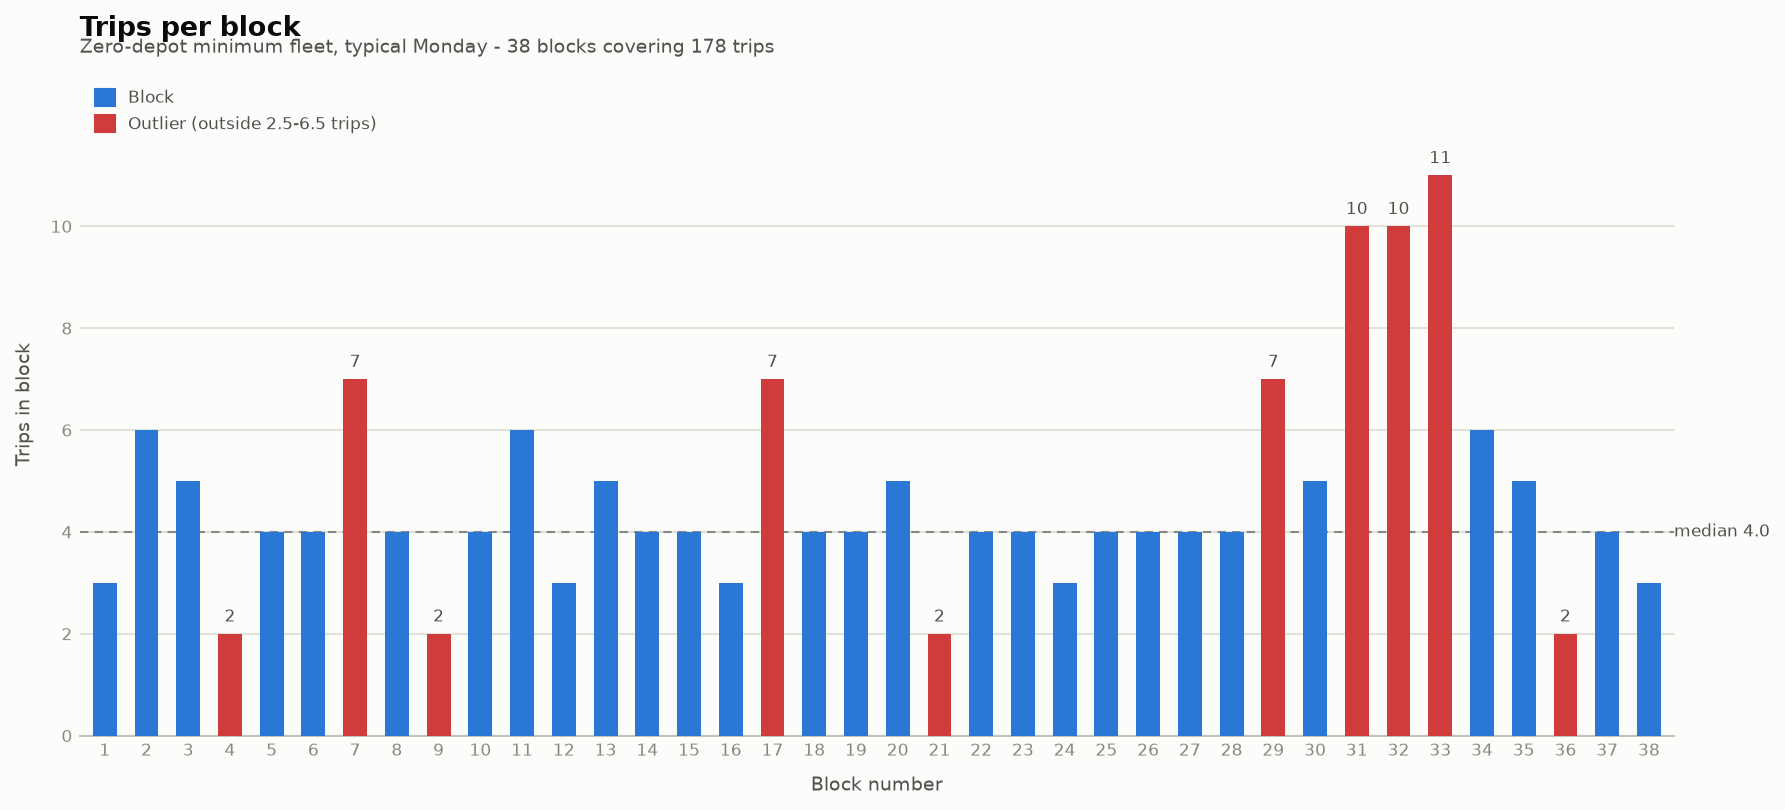
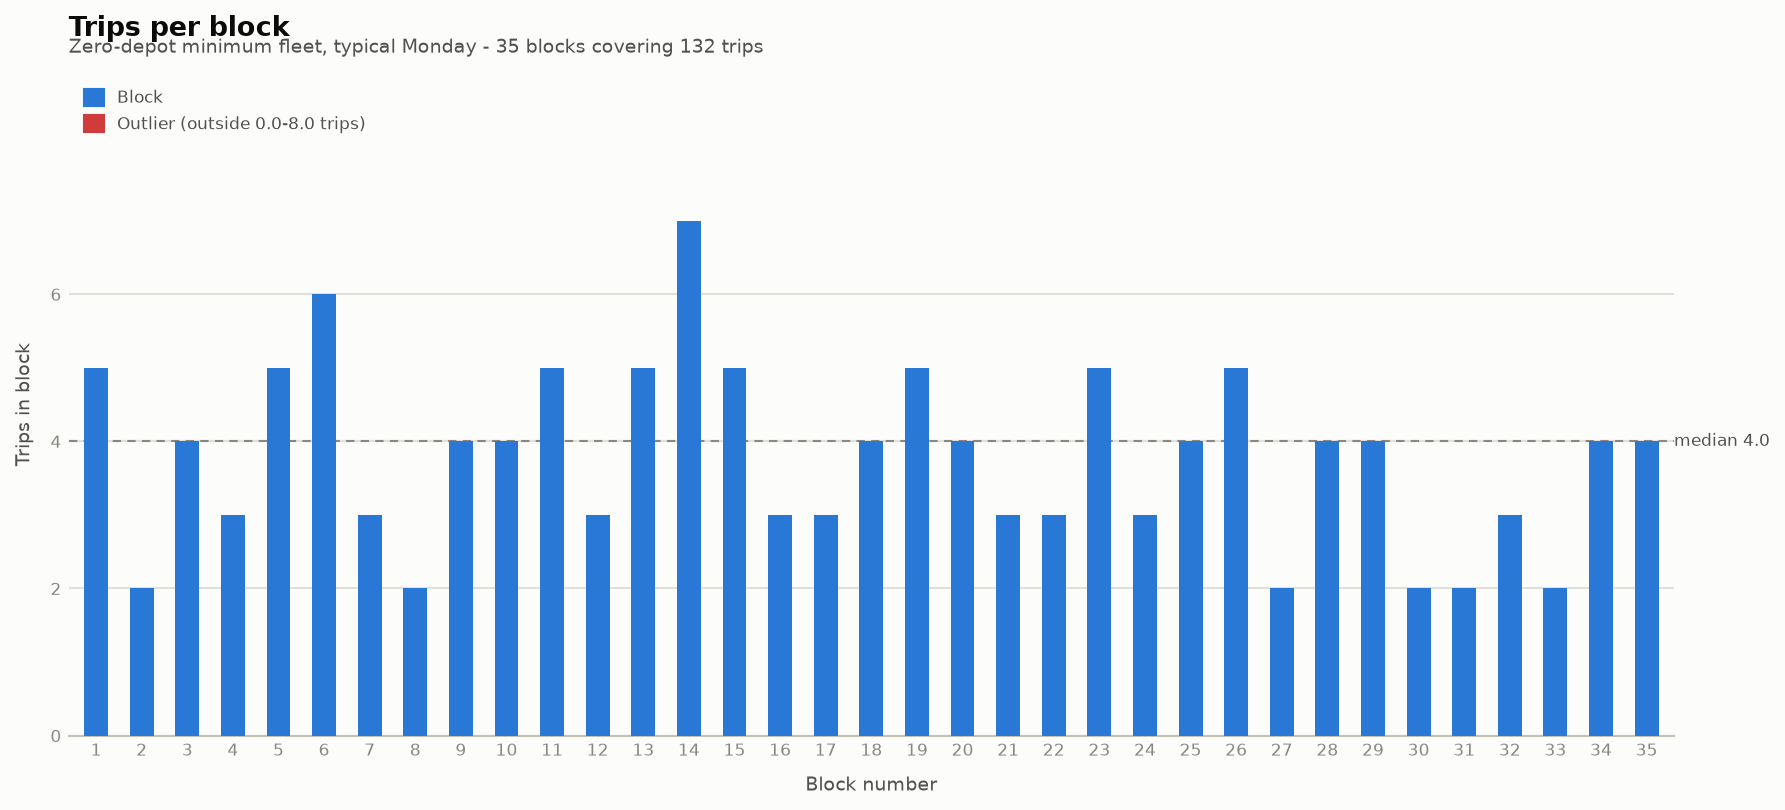
Removal of Arrow trips; revised analysis

diff --git a/tests/test_valid_pair.py b/tests/test_valid_pair.py
@@ -24,7 +24,7 @@ The suite is in three layers:
 
   * SYNTHETIC   - a hand-built schedule pinning the exact boundary around
                   `turnaround`, where the real data is too sparse to probe.
-  * PROPERTIES  - exhaustive sweeps over all 178^2 real pairs, asserting the
+  * PROPERTIES  - exhaustive sweeps over all 132^2 real pairs, asserting the
                   invariants the fleet model depends on. These are the tests
                   that actually protect the result.
   * REAL PAIRS  - named cases from the GTFS data, as readable anchors.
@@ -213,7 +213,7 @@ def test_unknown_trip_id_raises_keyerror(synthetic):
 # Properties, checked exhaustively over the real schedule
 # ==========================================================================
 #
-# These sweep all 178^2 = 31,684 ordered pairs. Spot checks can miss a sign
+# These sweep all 132^2 = 17,424 ordered pairs. Spot checks can miss a sign
 # error that only bites on a handful of pairs; these cannot. They are also the
 # invariants the min-fleet computation actually relies on, so a regression here
 # means a wrong answer, not just a wrong test.
@@ -299,12 +299,12 @@ def test_rejects_every_pair_that_runs_backwards(real_schedule):
 
 def test_arc_count_is_stable(accepted):
     """
-    Characterization test. 2,846 arcs at a 20-minute turnaround over the
-    178-trip typical Monday. Not a spec -- a tripwire, so that a change in the
+    Characterization test. 2,115 arcs at a 20-minute turnaround over the
+    132-trip typical Monday. Not a spec -- a tripwire, so that a change in the
     GTFS parse or the chaining rule surfaces here with a number to compare
     against rather than silently shifting the fleet result downstream.
     """
-    assert len(accepted) == 2846
+    assert len(accepted) == 2115
 
 
 # ==========================================================================
@@ -342,13 +342,13 @@ def test_real_pair_nineteen_minutes_passes_under_a_relaxed_turnaround():
 
 def test_real_pair_with_a_long_idle_layover():
     """
-    233003846  (185, 191, 13140, 14460)  in at Redlands-University 14460
-    233003845  (191, 185, 83220, 84540)  out from Redlands-University 83220
+    295700441  (123, 107, 14040, 19500)  Riverside -> LAUS, in at 19500
+    295200235  (107, 185, 77880, 84540)  LAUS -> San Bernardino, out at 77880
 
-    A 68,760s gap -- the set sits for 19 hours. Legal, if idle: turnaround is a
-    floor, not a ceiling.
+    A 58,380s gap -- the set sits for over 16 hours, the longest layover any
+    accepted pair carries. Legal, if idle: turnaround is a floor, not a ceiling.
     """
-    assert valid_pair(233003846, 233003845) is True
+    assert valid_pair(295700441, 295200235) is True
 
 
 def test_real_pair_with_second_trip_departing_first():
@@ -364,21 +364,21 @@ def test_real_pair_with_second_trip_departing_first():
 
 def test_real_pair_at_different_stations():
     """
-    200000029  (141, 185, 62820, 69360)  ends San Bernardino (185)
-    233003841  (191, 185, 76020, 77340)  starts Redlands-University (191)
+    200000030  (123, 141, 40200, 45120)  ends Laguna Niguel / Mission Viejo (141)
+    294100345  (185, 107, 52860, 59460)  starts San Bernardino (185)
 
-    Nearly two hours of slack, but the stations differ, so no chain.
+    A little over two hours of slack, but the stations differ, so no chain.
     """
-    assert valid_pair(200000029, 233003841) is False
+    assert valid_pair(200000030, 294100345) is False
 
 
 def test_real_schedule_has_the_expected_shape(real_schedule):
     """
-    Guards the assumption the fixtures above rest on: 178 trips, each a 4-tuple
+    Guards the assumption the fixtures above rest on: 132 trips, each a 4-tuple
     of ints. If typical_monday_trips.py changes shape, this fails first and
     explains why the hardcoded pairs stopped making sense.
     """
-    assert len(real_schedule) == 178
+    assert len(real_schedule) == 132
     for trip_id, entry in real_schedule.items():
         assert isinstance(entry, tuple) and len(entry) == 4, trip_id
         assert all(isinstance(v, int) for v in entry), trip_id

diff --git a/src/data_collection.py b/src/data_collection.py
@@ -7,12 +7,22 @@ choosing only the rows corresponding to services active on that day.
 Our first aim is to find such a Dataframe for a typical Monday - i.e. without
 service exceptions. The resulting Dataframe is written as a CSV in .txt format
 in gtfs_cleaned, named "typical_monday.txt".
+
+All Arrow DMU trips are excluded, as they form a distinct minority of trips
+operating on only the San Bernandino line. In particular, the Arrow FLIRT DMU's
+are maintained exclusively out of the Arrow Maintenance Facility in San Bernandino
+(https://www.gosbcta.com/maintenance-facility-construction-contract-for-future-arrow-service-trains/).
+These trips have trip_short_name numbered 38xx (https://metrolinktrains.com/globalassets/schedules/timetables/2026/ml-timetable-012626-arrow.pdf).
 """
 
 from pathlib import Path
 
 import pandas as pd
 from datetime import date
+
+# Arrow FLIRT trip_short_name's.
+
+ARROW_FLIRT = set([str(trip) for trip in range(3800, 3900)])
 
 # Resolve relative to this file, not the working directory, so the reads work
 # on any machine that clones the repo and from any directory the script is run
@@ -50,34 +60,22 @@ def services_active_on(day: date) -> set:
 
     return all_today, active_today
 
+# Filters out all Arrow FLIRT services - trip_short_name of form 38xx.
 def trips_on_day(day):
-    return trips[trips.service_id.isin( services_active_on(day)[1] )]
+    return trips[(trips['service_id'].isin( services_active_on(day)[1] ))
+                 & ~(trips['trip_short_name'].isin(ARROW_FLIRT))]
 
 # We find Oct 19, 2026 is a "typical monday" - there is no difference in the service sets
 # pre- and post- applying service exceptions.
-# 
-# If it is not already written, we write the resulting Dataframe to typical_monday.txt
+#
+# We write the resulting Dataframe to typical_monday.txt
 
 OCT_19_2026 = date(2026, 10, 19)
 assert(services_active_on(OCT_19_2026)[0] == services_active_on(OCT_19_2026)[1])
 
 OUT_PATH = DATA_DIR / "typical_monday.txt"
 
-# newline="" everywhere so the CSV's own "\n" line endings are never translated,
-# making the write and the read-back comparison byte-for-byte consistent.
-def write_if_changed(df: pd.DataFrame, path: Path) -> bool:
-    new_csv = df.to_csv(index=False)
-
-    if path.exists():
-        with open(path, "r", newline="", encoding="utf-8") as f:
-            if f.read() == new_csv:
-                return False  # Already up to date - leave the file alone.
-
-    with open(path, "w", newline="", encoding="utf-8") as f:
-        f.write(new_csv)
-    return True
-
-if write_if_changed(trips_on_day(OCT_19_2026), OUT_PATH):
-    print(f"Wrote {OUT_PATH}")
-else:
-    print(f"{OUT_PATH} already up to date")
+# newline="" so the CSV's own "\n" line endings are never translated.
+with open(OUT_PATH, "w", newline="", encoding="utf-8") as f:
+    f.write(trips_on_day(OCT_19_2026).to_csv(index=False))
+print(f"Wrote {OUT_PATH}")

diff --git a/src/typical_monday_trips.py b/src/typical_monday_trips.py
@@ -1,3 +1,16 @@
+"""
+Re-writes the data for a typical Monday schedule in a format convenient for
+formulating a LP. Every trip is represented as a key in a dictionary, with
+value a tuple (departure stop_id, arrival stop_id, departure time, arrival time).
+Such information is necessary for determining whether trips can chain into
+each other.
+
+Since this relies on typical_monday.txt for trips, we naturally exclude the
+Arrow trips as well. This results in a total 132 trips on a typical Monday, as
+demonstrated in the number of non-label non-empty lines in typical_monday.txt
+(easily verifiable by inspection).
+"""
+
 from pathlib import Path
 
 import pandas as pd
@@ -32,6 +45,8 @@ def typical_schedule_per_trip(trip_id: int) -> None:
 
     trip_stop_times = typical_stops[typical_stops.trip_id == trip_id]
     trips, _ = trip_stop_times.shape
+
+    # Turn a tuple (hours, minutes, seconds) into the total number of seconds as an integer.
     time_eval = lambda x: 3600*x[0] + 60*x[1] + x[2]
 
     departure, arrival = trip_stop_times.iloc[0], trip_stop_times.iloc[trips-1]
@@ -47,6 +62,9 @@ def typical_schedule_per_trip(trip_id: int) -> None:
 
 for trip in typical_monday_trip_ids:
     typical_schedule_per_trip(trip)
+
+# The typical Monday contains 132 total trips.
+assert( len(typical_monday_trip_schedule.keys()) == 132 )
 
 if __name__ == "__main__":
     # One line per trip rather than one dict repr, so the output can be read,

diff --git a/src/zero_depot_fleet.py b/src/zero_depot_fleet.py
@@ -54,9 +54,8 @@ assert(pulp.LpStatus[prob.status] == "Optimal")
 # of total trips minus the optimal number of chainings.
 fleet_size = len(typical_monday_trip_ids) - round(pulp.value(prob.objective))
 
-# fleet_size was found to be 38 total trains.
-assert(fleet_size == 38)
-
+# fleet_size was found to be 35 total trains, excluding DMU's running on the Arrow line.
+assert(fleet_size == 35)
 
 # Finding the actual blocks for this solution. We know the DAG formed by taking trips
 # as nodes and chains as directed arcs (which is acyclic because no chain can go back
@@ -133,8 +132,9 @@ def pretty_print_blocks(boolprint: bool):
 
 if __name__ == "__main__":
     # Pretty-prints the blocks. To display trips, set boolprint to True.
-    pretty_print_blocks(boolprint=False)
-    print(f"Minimum fleet size: {fleet_size} trainsets over {len(blocks_dict)} blocks.")
+    pretty_print_blocks(boolprint=True)
+    print("")
+    print(f"Minimum fleet size: {fleet_size} trainsets over {len(blocks_dict)} blocks.", end = '\n')
     # Block length statistics and the bar chart live in zero_depot_fleet_visualization.
     for block_id in sorted(block_origin_terminus.keys()):
         print(f"Block {block_id} " if block_id >= 10 else f"Block 0{block_id} ", end="")

diff --git a/README.md b/README.md
@@ -7,7 +7,15 @@ network from its published GTFS feed. The pipeline picks a *typical Monday* out
 of the feed — Oct 19, 2026, chosen because the set of services scheduled that
 day is identical before and after applying the feed's service exceptions, so it
 represents ordinary operation rather than a holiday or a special event. That day
-carries **178 trips** across the seven Metrolink lines.
+carries **132 trips** across the seven Metrolink lines.
+
+The Redlands **Arrow** trips are excluded. Arrow runs FLIRT DMUs maintained
+exclusively at the Arrow Maintenance Facility in San Bernardino, so they are a
+separate fleet that cannot chain with locomotive-hauled equipment — but the feed
+files them under the San Bernardino Line rather than a route of their own, so
+nothing in the GTFS tables marks them apart. `data_collection.py` drops them by
+`trip_short_name`, which Arrow numbers 38xx. That removes 46 of the day's 178
+trips.
 
 Each trip is reduced to the only four facts that matter for equipment planning:
 the station it departs from, the station it arrives at, and the two clock times,
@@ -17,7 +25,7 @@ least 20 minutes between the arrival and the following departure — enough to
 change ends and service the set. The turnaround is a **lower** bound only: a set
 that lays over at Lancaster from morning until evening is a legal, if idle,
 chain, and on the outer ends of the AV and VC lines it is a necessary one.
-Applying that rule to all 178² ordered pairs yields **2,846 valid chainings**.
+Applying that rule to all 132² ordered pairs yields **2,115 valid chainings**.
 
 Treat trips as nodes and valid chainings as directed arcs and the result is a
 DAG — every arc moves strictly forward in time, so no sequence of chains can
@@ -32,7 +40,16 @@ makes it totally unimodular, so the relaxation is guaranteed to land on an
 integral optimum anyway and CBC gets an easier problem to solve.
 
 The answer, for a typical Monday under a 20-minute turnaround and no
-deadheading, is **38 trainsets** for 178 trips.
+deadheading, is **35 trainsets** for 132 trips. There is a very slight discrepancy
+between Metrolink's minimum total locomotives to run a normal weekday schedule,
+which was **36 trainsets** (https://www.trains.com/trn/news-reviews/news-wire/locomotive-issues-lead-to-metrolink-train-cancellations/).
+
+Excluding the Arrow trips is what moved that number: with them in, the same
+model returned 38 trainsets, and the longest block ran 11 trips. Without them
+the fleet drops to 35 and the longest block to 7 — inside the Tukey fences of
+[0, 8], so no block now reads as an outlier at all. The Arrow trips were not
+making the problem harder so much as making it fictitious; they chained into
+locomotive-hauled work that no DMU could ever cover.
 
 ### Modelling assumptions
 
@@ -51,66 +68,71 @@ monotonically with it.
 **span** — first departure to last arrival. Three things stand out.
 
 **The day balances.** The multiset of origins is exactly the multiset of
-termini: 12 blocks start at San Bernardino and 12 end there, 6 and 6 at LAUS,
-and so on across all twelve stations involved. Nothing needs repositioning
-overnight for the schedule to repeat, so 38 sets is a steady state rather than a
-one-day trick — and nothing in the model asked for it, it falls out of the
-matching. It
-also means the blocks chain into **rotations**: seven return to their own origin
-(two via triangles rather than out-and-backs, which is why they carry an odd
-number of trips), and the other 31 decompose into cycles — eight two-day pairs,
-one three-day, one four-day, one eight-day. The fleet is 18 pools, not 38
-independent duties, though only the two-day pairs are forced; the longer cycles
-are one valid decomposition among several. Rotation length is a cost in itself:
-the eight-day loop runs Perris → Riverside → Ventura → San Bernardino →
-Moorpark → LAUS → Chatsworth → Redlands, collecting the three stations that
-appear exactly once in the schedule and so cannot pair off with anything.
+termini: 10 blocks start at San Bernardino and 10 end there, 6 and 6 at LAUS,
+5 and 5 at Riverside, and so on across all eleven stations involved. Nothing
+needs repositioning overnight for the schedule to repeat, so 35 sets is a steady
+state rather than a one-day trick — and nothing in the model asked for it, it
+falls out of the matching. It also means the blocks chain into **rotations**:
+three return to their own origin and can simply repeat the next day (blocks 12,
+13, and 23, all San Bernardino to San Bernardino, all carrying an odd number of
+trips because they are triangles rather than out-and-backs), and the other 32
+decompose into cycles — two two-day pairs, both turning at Lancaster, plus one
+ten-day and one eighteen-day. The fleet is 7 pools, not 35 independent duties,
+though only the short cycles are forced; the long ones are one valid
+decomposition among several. Rotation length is a cost in itself: the
+eighteen-day loop opens Perris → Chatsworth → Redlands, collecting the stations
+that appear exactly once in the schedule and so cannot pair off with anything.
 
 **Most endpoints are real stabling points.** Metrolink overhauls equipment at
 the [Central Maintenance Facility](https://metrolinktrains.com/community-main/cmf/)
 beside LAUS and at the Eastern Maintenance Facility in Colton, minutes from San
 Bernardino - Downtown, and stables sets overnight at Lancaster, East Ventura,
 Moorpark, Riverside, Perris Valley, and Stuart Mesa north of Oceanside. That
-covers both ends of 31 of the 38 blocks. The rest begin or end at Chatsworth,
-Vista Canyon, or one of the two Redlands stations — none a documented storage
+covers both ends of 30 of the 35 blocks. The other five begin or end at
+Chatsworth, Vista Canyon, or Redlands - Downtown — none a documented storage
 location — so those sets need a deadhead the model does not price.
 
-**The long blocks are the questionable ones.** Spans run 3:43 to 19:21 (median
-14:18), and fleet-wide the sets are in revenue service for 242 of 514
-block-hours, or 47%. That idleness is normal for peak-heavy commuter rail and is
-exactly what buys the low fleet count. But five blocks span 16 hours or more,
-and what constrains them is the gap to whatever the set does next in its
-rotation — not 24 hours minus the span. The three tightest:
+**The long blocks are the questionable ones.** Spans run 3:43 to 18:18 (median
+13:18), and fleet-wide the sets are in revenue service for 225 of 445
+block-hours, or 51%. That idleness is normal for peak-heavy commuter rail and is
+exactly what buys the low fleet count. Only three blocks now span 16 hours or
+more — 6, 14, and 19 — and what constrains them is the gap to whatever the set
+does next in its rotation, not 24 hours minus the span. The four tightest
+handoffs:
 
-| Block | Span | Endpoints | Next duty | Overnight |
+| Block | Span | Ends at | Next duty | Overnight |
 | --- | --- | --- | --- | --- |
-| 30 | 19:21 | Redlands - University → San Bernardino | blk 33 | 6:13 |
-| 29 | 18:50 | San Bernardino → San Bernardino | itself | 5:10 |
-| 33 | 17:18 | San Bernardino → Redlands - University | blk 30 | 5:08 |
+| 23 | 15:48 | San Bernardino, 19:29 | itself, 03:41 | 8:12 |
+| 20 | 14:57 | Lancaster, 20:51 | blk 6, 05:11 | 8:20 |
+| 29 | 14:10 | Lancaster, 21:51 | blk 7, 06:11 | 8:20 |
+| 34 | 14:08 | Lancaster, 19:51 | blk 9, 04:11 | 8:20 |
 
 [49 CFR 238.303](https://www.ecfr.gov/current/title-49/subtitle-B/chapter-II/part-238/subpart-D/section-238.303)
 requires an exterior mechanical inspection once each calendar day the equipment
-is in service, and fueling, cleaning, and brake tests want the same window. The
-binding case is the tightest handoff rather than the longest block: Block 33
-arrives at Redlands - University at 23:00 and Block 30 leaves at 04:08, giving
-5h08m at a station with no facility. Thin but not disqualifying — the inspection
-is per calendar day, not a rolling 24 hours. The sharper constraint is that the
-outer layovers are storage tracks with no fueling, so a set stabled at Lancaster
-or Perris is on a multi-day cycle back to CMF or EMF that a single-day model
-cannot see.
+is in service, and fueling, cleaning, and brake tests want the same window.
+Eight hours is comfortable for that, so the tightest handoff is no longer the
+binding one — Block 23 turns at San Bernardino, minutes from EMF Colton, and
+8h12m there is routine. What binds instead is *where* the other three sit:
+Lancaster is a storage track with no fueling, and three of the four tightest
+turns happen on it. A set stabled at Lancaster or Perris is on a multi-day cycle
+back to CMF or EMF that a single-day model cannot see, and the ten- and
+eighteen-day rotations above are exactly how long that takes.
 
-Two caveats outweigh all of this. The feed files the Redlands **Arrow** trips
-under the San Bernardino Line rather than a route of their own, so nothing marks
-them as a separate fleet: all 48 land in blocks that also contain
-locomotive-hauled trips, and not one of those 13 blocks is operable by a single
-type of equipment. Arrow runs DMUs, so those blocks are arithmetic, not
-schedules. And none of this leaves the typical weekday — Saturday and Sunday
-carry 92 trips each against 178, which `services_active_on` in
-[src/data_collection.py](src/data_collection.py) cannot even evaluate, since it
-indexes `calendar.txt` by a five-element weekday list; the 14 dates in
-`calendar_dates.txt` that change service are likewise never examined. A real
-fleet is sized for the busiest day of the week, holidays and special events
-included.
+One caveat outweighs all of this: none of it leaves the typical weekday.
+Saturday and Sunday carry 60 non-Arrow trips each against the weekday 132, which
+`services_active_on` in [src/data_collection.py](src/data_collection.py) cannot
+even evaluate, since it indexes `calendar.txt` by a five-element weekday list;
+the 14 dates in `calendar_dates.txt` that change service are likewise never
+examined. A real fleet is sized for the busiest day of the week, holidays and
+special events included.
+
+Excluding Arrow does at least make the blocks single-mode: every one of the 35
+is now locomotive-hauled throughout, where before, all 46 Arrow trips landed in
+blocks that also carried locomotive-hauled work and not one of those blocks was
+operable by a single type of equipment. Redlands has not vanished from the
+picture, though — trips 309 and 342 are locomotive-hauled San Bernardino Line
+runs extended to Redlands - Downtown, which is why one block still starts there
+and one still ends there.
 
 ## Layout
 
@@ -118,10 +140,12 @@ included.
 metrolink/
 ├── gtfs_raw/                     Metrolink GTFS feed, exactly as published
 ├── gtfs_cleaned/                 Working copy of the feed, plus derived data
-│   └── typical_monday.txt          Trips active on Oct 19, 2026 (written by data_collection.py)
+│   └── typical_monday.txt          The 132 non-Arrow trips active on Oct 19, 2026
+│                                    (written by data_collection.py)
 ├── src/
 │   ├── data_collection.py        Resolves calendar.txt + calendar_dates.txt into the
-│   │                             services active on a given day; finds and writes the typical Monday
+│   │                             services active on a given day; drops the Arrow DMU trips
+│   │                             (trip_short_name 38xx) and writes the typical Monday
 │   ├── typical_monday_trips.py   Reduces each typical-Monday trip to
 │   │                             (departure stop, arrival stop, departure time, arrival time)
 │   ├── preformulation.py         valid_pair() — the chaining rule; builds the arc set of the DAG
@@ -147,7 +171,7 @@ is a plain script.
 python src/data_collection.py      # writes gtfs_cleaned/typical_monday.txt
 python src/typical_monday_trips.py # prints the per-trip schedule
 python src/preformulation.py       # prints the valid arcs
-python src/zero_depot_fleet.py     # solves the LP (asserts the fleet size is 38)
+python src/zero_depot_fleet.py     # solves the LP (asserts the fleet size is 35)
 pytest                             # 30 tests
 ```
 
